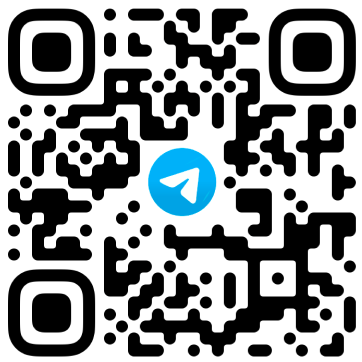
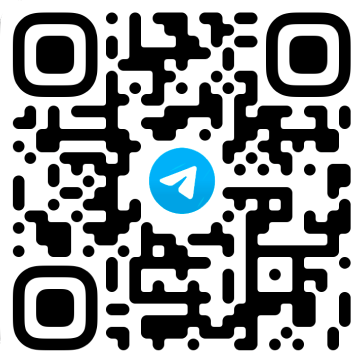
upcommit

diff --git a/src/App.vue b/src/App.vue
@@ -1,17 +1,19 @@
 <template>
-  <main>
-    <MainSection />
-    <PlaceSection />
-    <PlanSection />
-    <DresscodeSection />
-    <MomentsSection />
-    <ContactsSection />
-    <FormSection />
-  </main>
+  <template v-if="isValidAccess">
+    <main>
+      <MainSection />
+      <PlaceSection />
+      <PlanSection />
+      <DresscodeSection />
+      <MomentsSection />
+      <ContactsSection />
+      <FormSection />
+    </main>
+  </template>
 </template>
 
 <script setup lang="ts">
-import {ref, onMounted} from 'vue'
+import { ref, onMounted } from 'vue'
 import MainSection from './widgets/MainSection.vue'
 import PlaceSection from './widgets/PlaceSection.vue'
 import PlanSection from './widgets/PlanSection.vue'
@@ -19,7 +21,7 @@ import DresscodeSection from './widgets/DresscodeSection.vue'
 import MomentsSection from './widgets/MomentsSection.vue'
 import ContactsSection from './widgets/ContactsSection.vue'
 import FormSection from './widgets/FormSection.vue'
-import {ACCESS_CONFIG, verifyPassword} from './shared/config/access'
+import { ACCESS_CONFIG, verifyPassword } from './shared/config/access'
 
 const isValidAccess = ref(false)
 

diff --git a/src/widgets/ContactsSection.vue b/src/widgets/ContactsSection.vue
@@ -5,7 +5,7 @@
       Сканируйте QR-код, чтобы добавить снимки в наш общий альбом – и просто познакомиться поближе до свадьбы
     </div>
     <div class="contacts-section__qr">
-      <a class="" href="https://t.me/+a00j3IYJHEZlNjJi" target="_blank">
+      <a class="" href="https://t.me/+HQ8Li5vyjf44N2My" target="_blank">
         <img src="/images/tg.png" alt="qr" />
       </a>
       <span>Отсканируй или нажми на qr-код</span>
